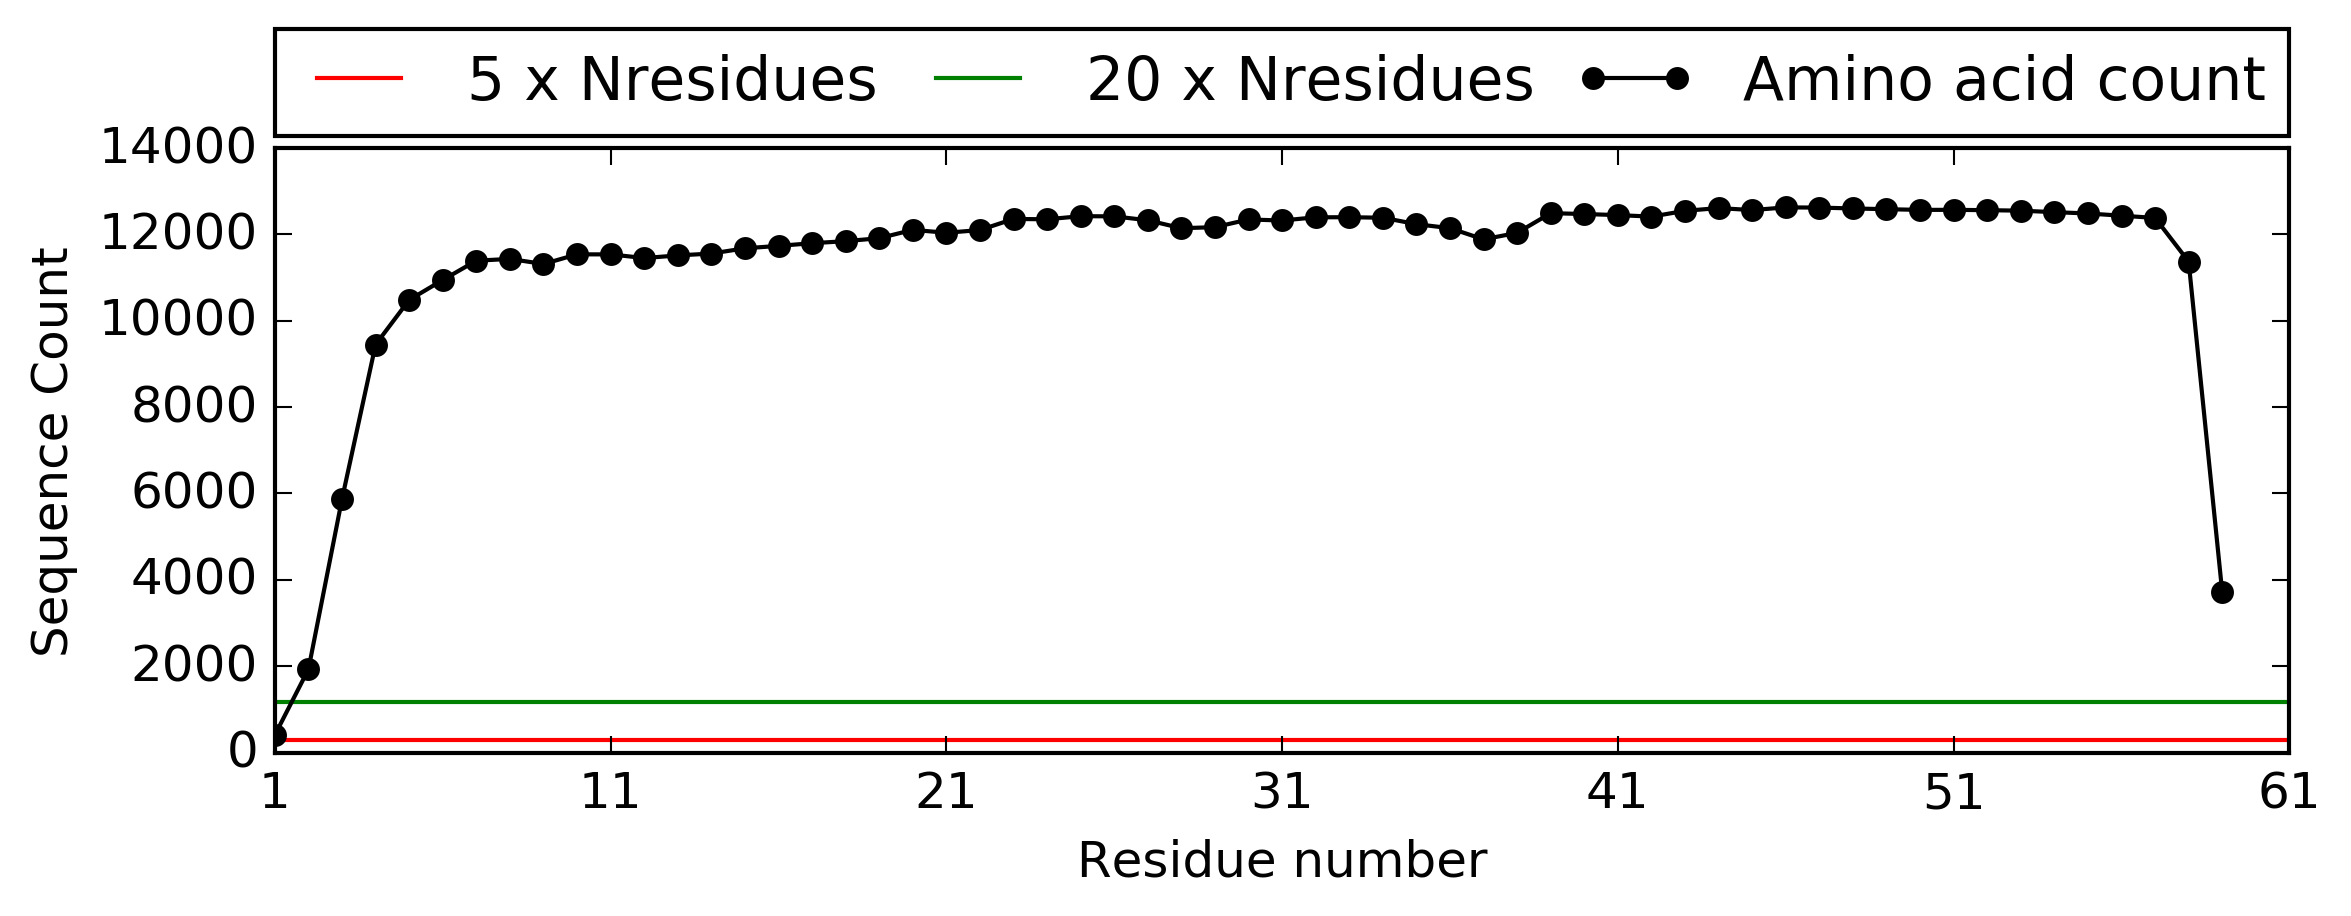
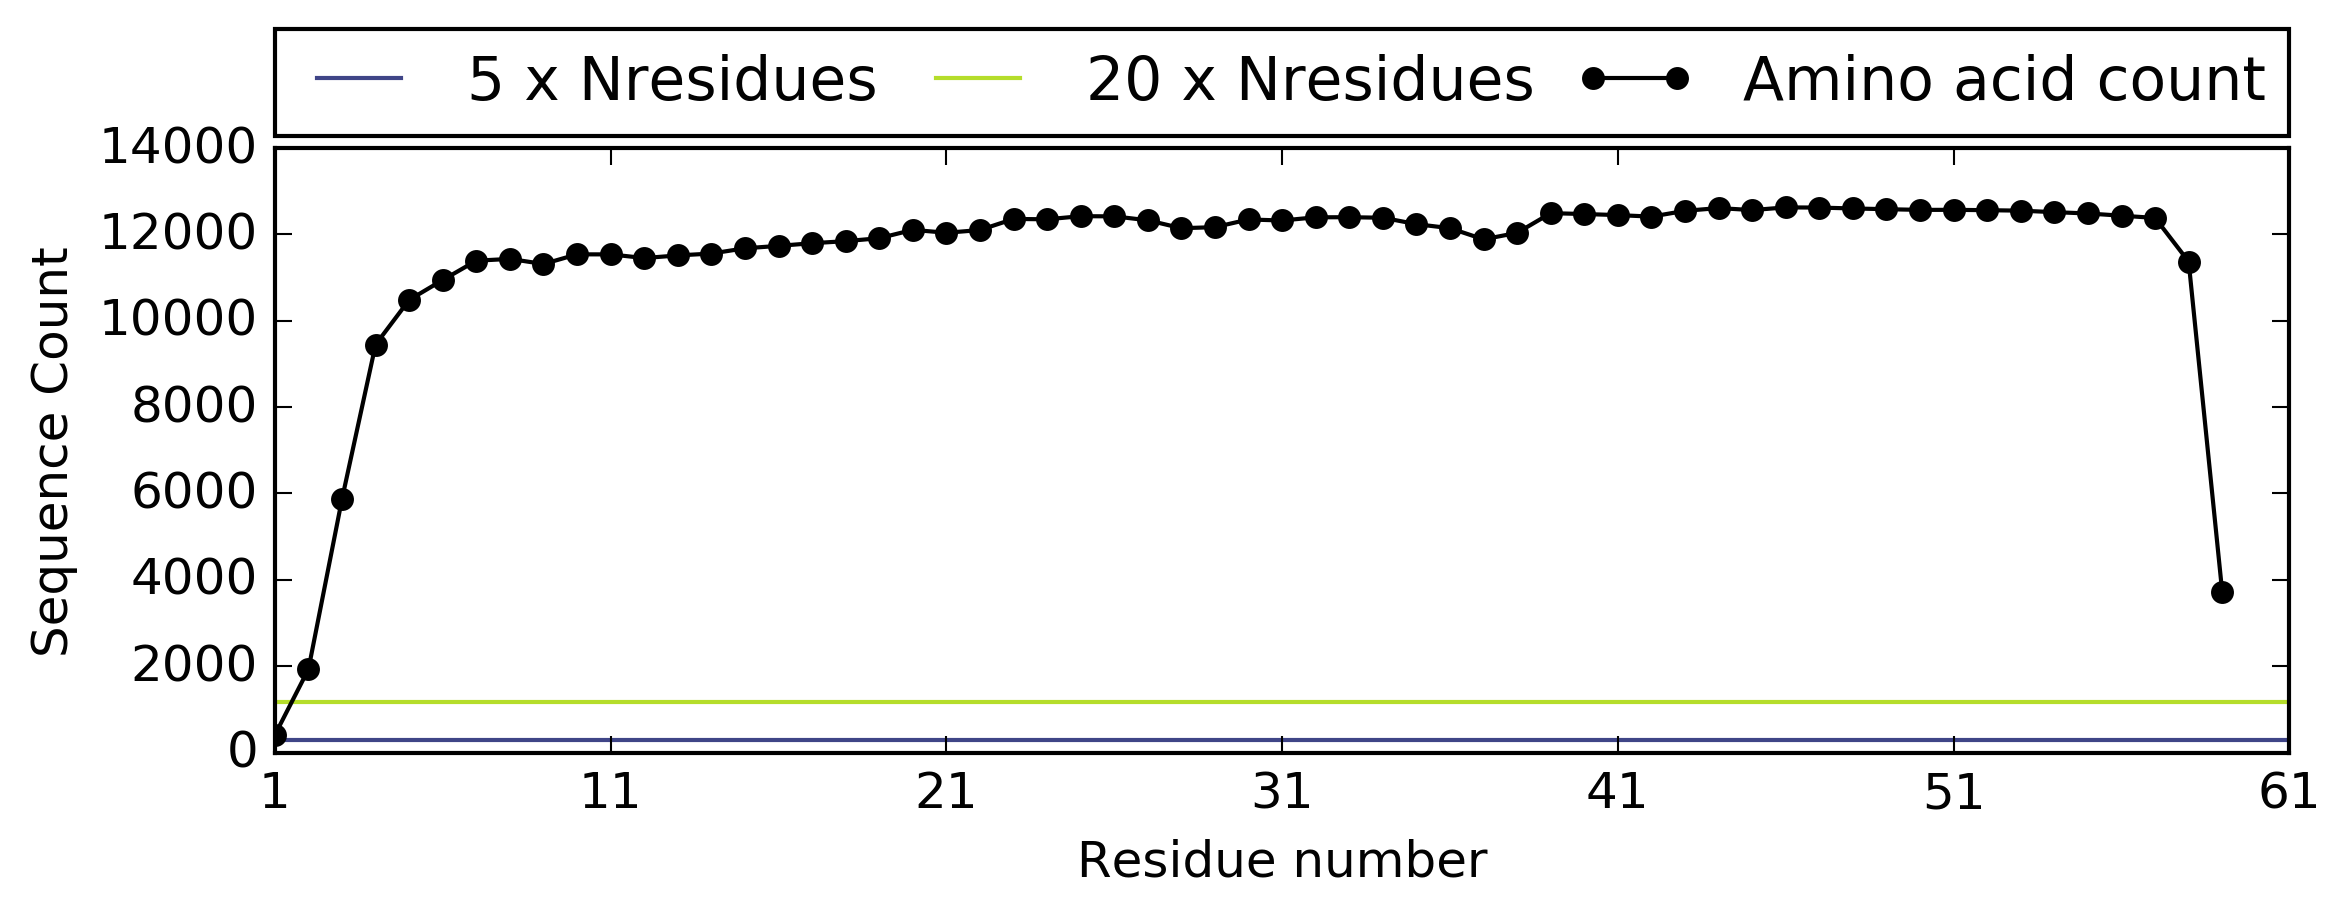
color scheme changed for color blind and better grayscale printing

Changed region(s): [[0.1242, 0.7642, 0.9626, 0.8253], [0.4037, 0.0611, 0.4347, 0.0917]]

diff --git a/conkit/plot/SequenceCoveragePlot.py b/conkit/plot/SequenceCoveragePlot.py
@@ -96,9 +96,9 @@ class SequenceCoverageFigure(Figure):
         fig, ax = matplotlib.pyplot.subplots()
 
         # Add lines as quality indicators
-        ax.axhline(self._hierarchy.top_sequence.seq_len * 5, color='r', label='5 x Nresidues')
+        ax.axhline(self._hierarchy.top_sequence.seq_len * 5, color='#3F4587', label='5 x Nresidues')
         if any(x >= self._hierarchy.top_sequence.seq_len * 20 for x in aa_counts):
-            ax.axhline(self._hierarchy.top_sequence.seq_len * 20, color='g', label='20 x Nresidues')
+            ax.axhline(self._hierarchy.top_sequence.seq_len * 20, color='#B5DD2B', label='20 x Nresidues')
 
         ax.plot(residues, aa_counts, color='#000000', marker='o', linestyle='-',
                 markersize=5, label='Amino acid count')
